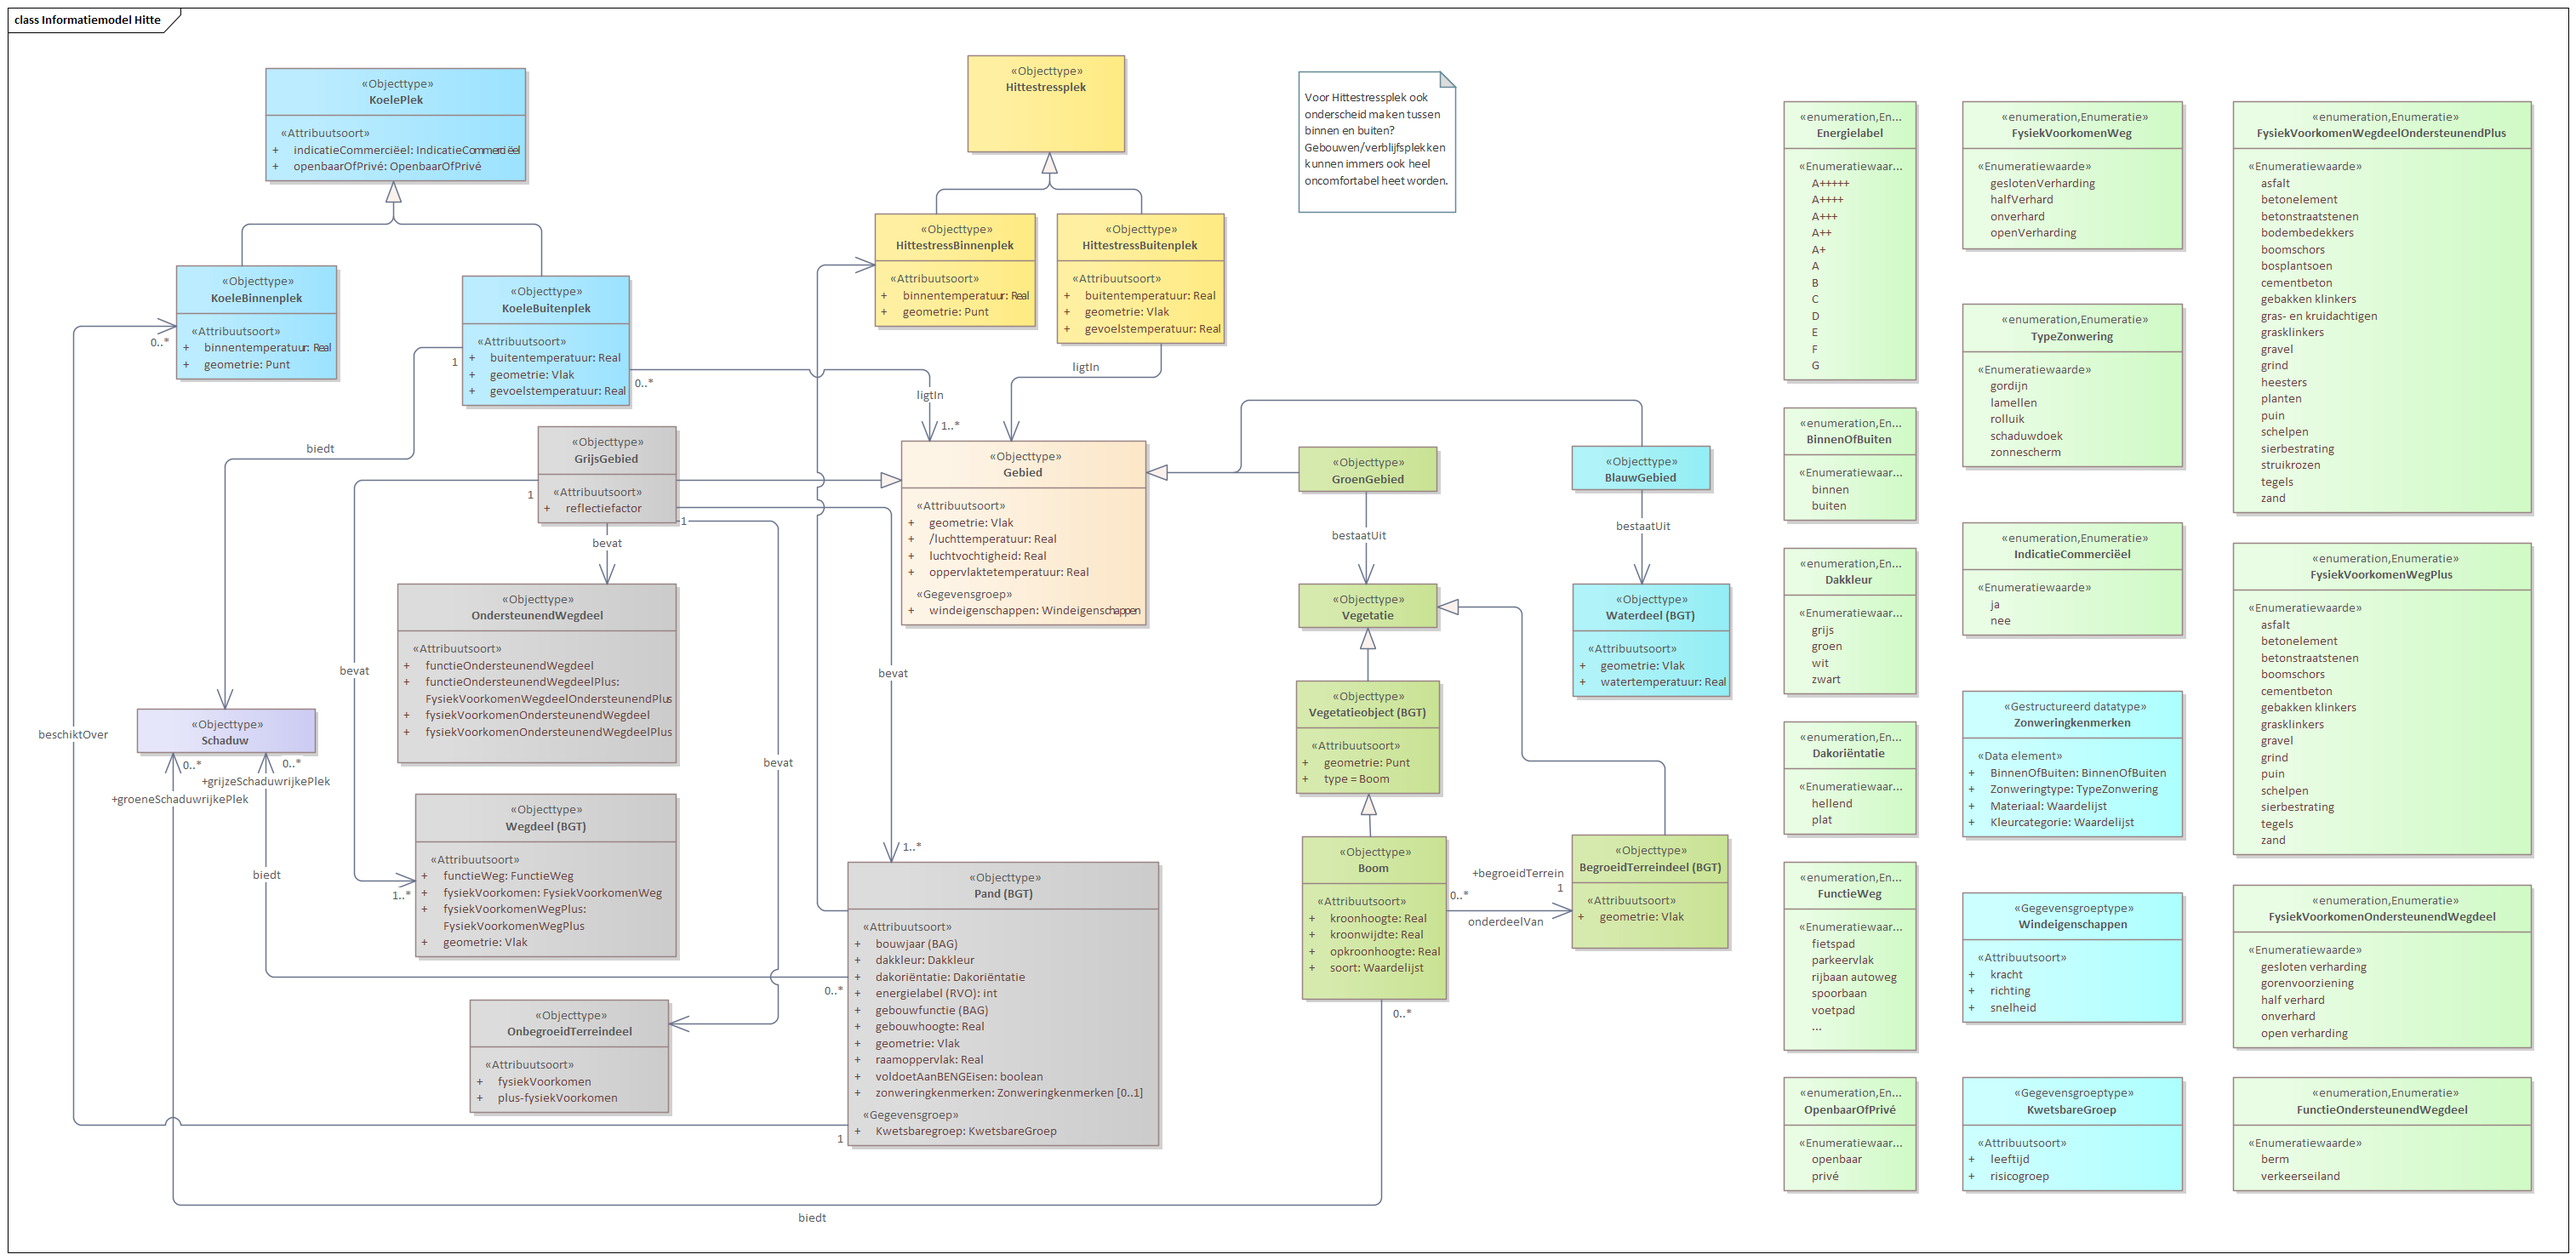
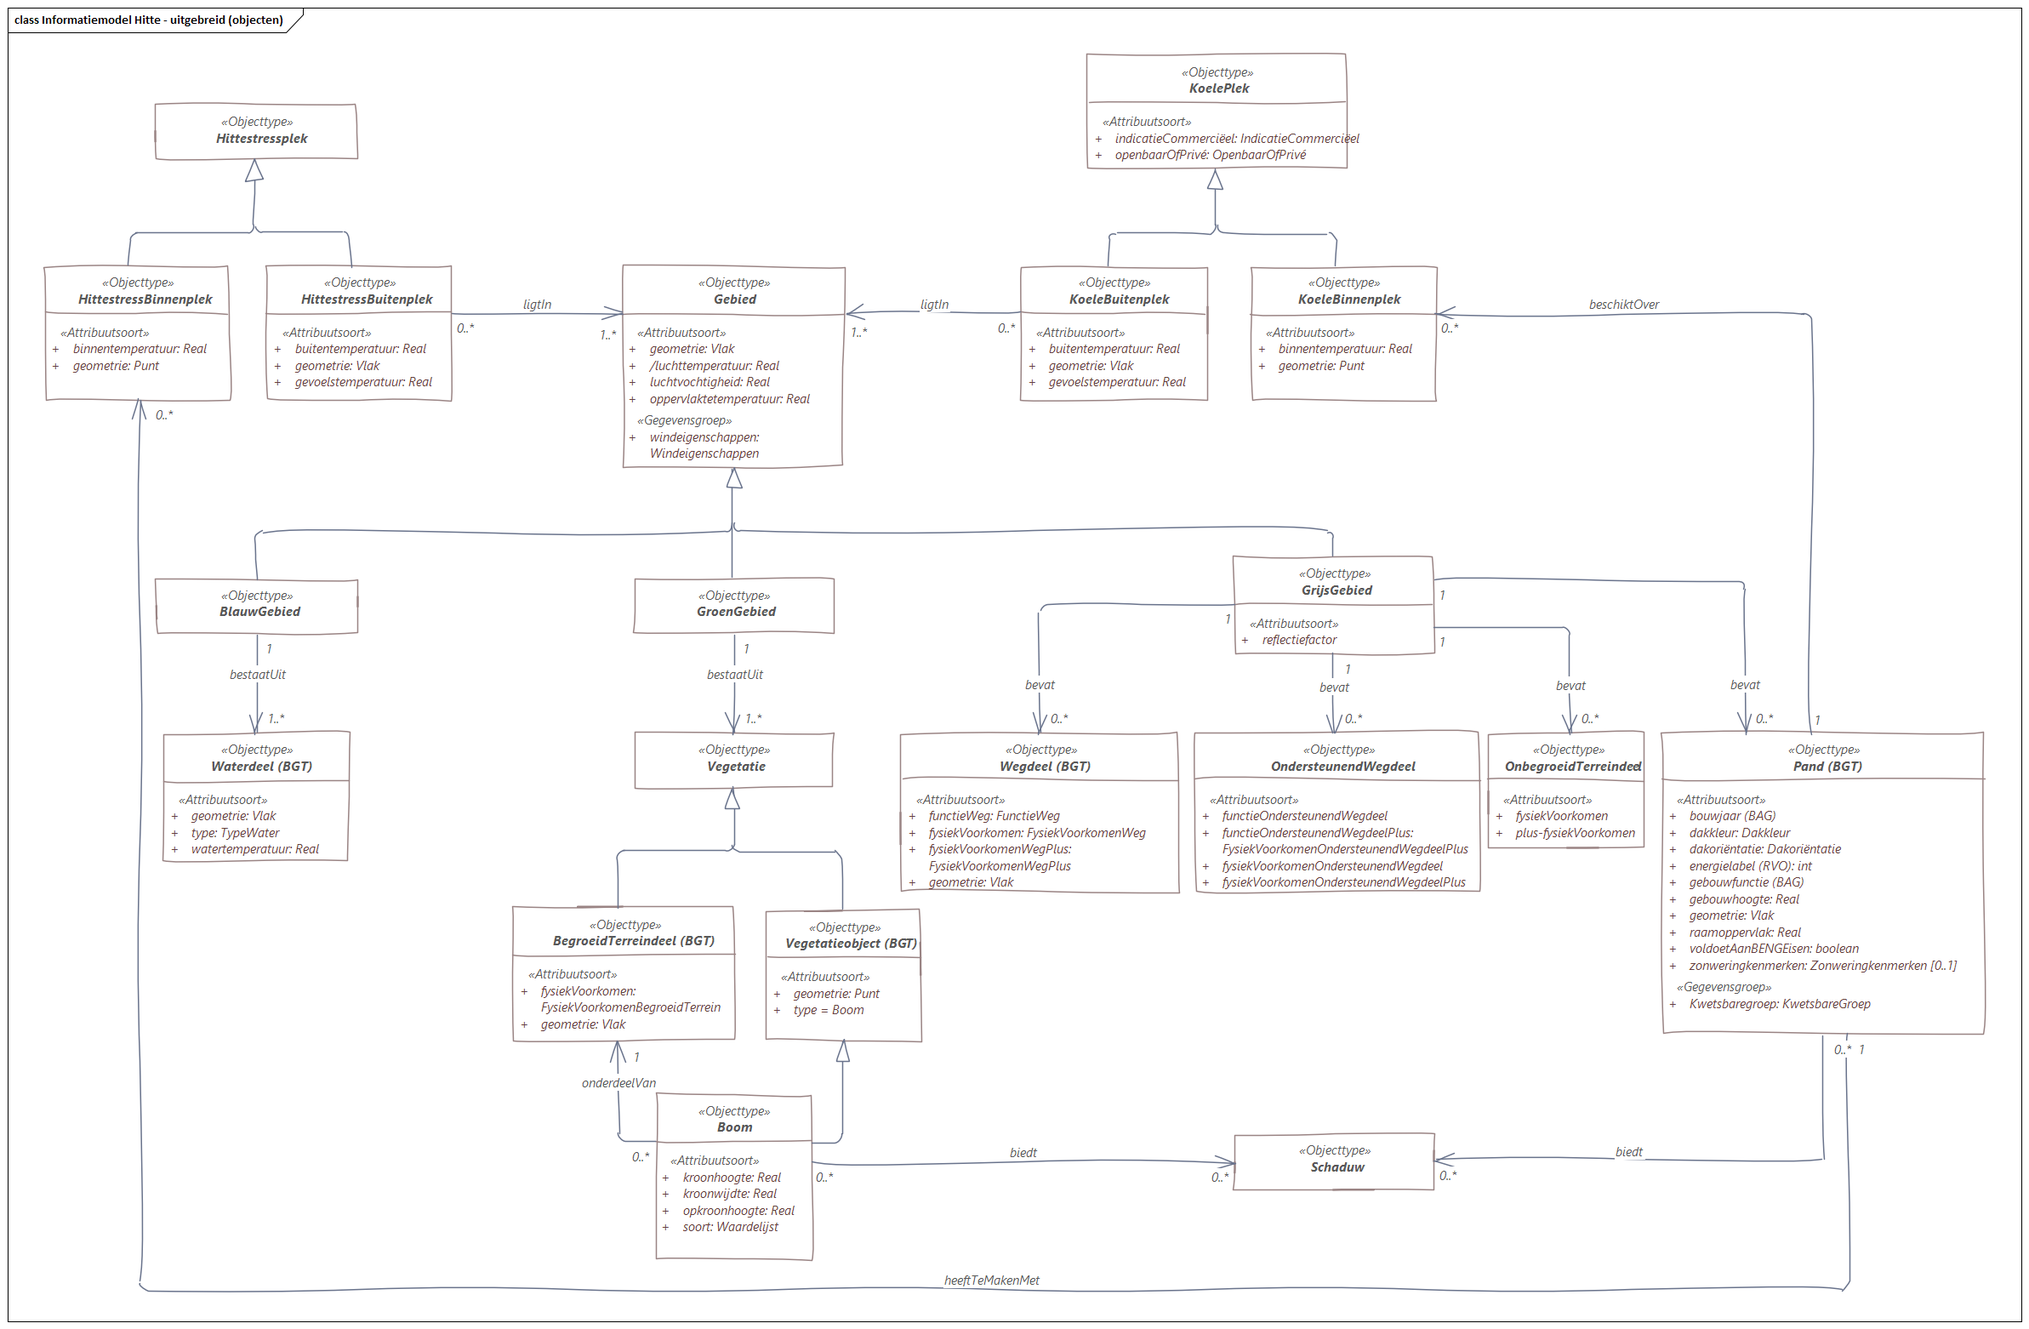
add new images

diff --git a/toelichting.md b/toelichting.md
@@ -78,9 +78,13 @@ Bomenbestand
 
 Begroeidterreindeel BGT
 
+Overzicht van conceptueel informatiemodel hitte - uitgebreid
+
 ![](media/imka_schets_02_uitgebreid.png)
 
+Overzicht van waarden van de objecteigenschappen bij het conceptueel informatiemodel hitte  
 
+![](media/imka_schets_02_uitgebreid_datatypen.png)
 
 ### Aanbevelingen voor vervolg
 
